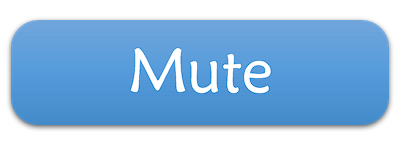
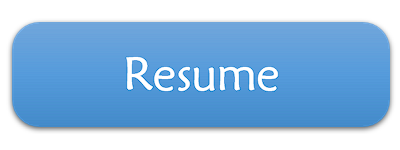
Assets Added, Positions Updated

diff --git a/core/src/main/java/io/github/some_example_name/OverlayPause.java b/core/src/main/java/io/github/some_example_name/OverlayPause.java
@@ -61,6 +61,7 @@ public class OverlayPause extends ScreenAdapter {
 
         button = new ImageButton(buttonStyle);
         button.setPosition(SCREEN_WIDTH * posX - button.getWidth() * 0.5f, SCREEN_HEIGHT * posY-button.getHeight()*0.5f);
+
         button.setHeight(buttonHeight);
         button.setWidth(buttonWidth);
         pauseStage.addActor(button);
@@ -74,7 +75,7 @@ public class OverlayPause extends ScreenAdapter {
         pauseStage = new Stage(new ScreenViewport());
 
         // Create buttons
-        resumeButton = createImageButton("mute.png", "mute.png", 400, 105, 0.5f, 0.75f);
+        resumeButton = createImageButton("resume.png", "resume.png", 400, 100, 0.51f, 0.75f);
         resumeButton.addListener(new ClickListener() {
             @Override
             public void clicked(InputEvent event, float x, float y) {
@@ -82,7 +83,7 @@ public class OverlayPause extends ScreenAdapter {
             }
         });
 
-        saveButton = createImageButton("mute.png", "mute.png", 400, 105, 0.5f, 0.65f);
+        saveButton = createImageButton("save_game.png", "save_game.png", 400, 100, 0.51f, 0.63f);
         saveButton.addListener(new ClickListener() {
             @Override
             public void clicked(InputEvent event, float x, float y) {
@@ -97,7 +98,7 @@ public class OverlayPause extends ScreenAdapter {
             }
         });
 
-        restartButton = createImageButton("mute.png", "mute.png", 400, 105, 0.5f, 0.55f);
+        restartButton = createImageButton("restart.png", "restart.png", 400, 100, 0.51f, 0.51f);
         restartButton.addListener(new ClickListener() {
             @Override
             public void clicked(InputEvent event, float x, float y) {
@@ -130,7 +131,7 @@ public class OverlayPause extends ScreenAdapter {
             }
         });
 
-        exitButton = createImageButton("mute.png", "mute.png", 400, 105, 0.5f, 0.45f);
+        exitButton = createImageButton("exit_level.png", "exit_level.png", 400, 100, 0.51f, 0.39f);
         exitButton.addListener(new ClickListener() {
             @Override
             public void clicked(InputEvent event, float x, float y) {
@@ -149,6 +150,7 @@ public class OverlayPause extends ScreenAdapter {
         overlaySaveGame = new OverlaySaveGame();
 
     }
+
     public void render(float delta) {
         if (isActive) {
             batch.begin();
@@ -219,7 +221,15 @@ public class OverlayPause extends ScreenAdapter {
 //    }
 
     public void resize(int width, int height) {
+
         pauseStage.getViewport().update(width, height, true);
+        resumeButton.setPosition(Gdx.graphics.getWidth() *0.5f - resumeButton.getWidth()*0.5f, Gdx.graphics.getHeight() *0.75f - resumeButton.getHeight() *0.5f);
+        saveButton.setPosition(Gdx.graphics.getWidth() * 0.1f - saveButton.getWidth()*0.5f, Gdx.graphics.getHeight() *0.6f - saveButton.getHeight() *0.5f);
+        restartButton.setPosition(Gdx.graphics.getWidth() * 0.1f - restartButton.getWidth()*0.5f, Gdx.graphics.getHeight() *0.4f - restartButton.getHeight() *0.5f);
+        exitButton.setPosition(Gdx.graphics.getWidth() * 0.1f - exitButton.getWidth()*0.5f, Gdx.graphics.getHeight() *0.3f - exitButton.getHeight() *0.5f);
+
+        settingsButton.setPosition(Gdx.graphics.getWidth() * 0.65f - settingsButton.getWidth()*0.5f, Gdx.graphics.getHeight() *0.6f - settingsButton.getHeight() *0.5f);
+
     }
 
     public void dispose() {

diff --git a/core/src/main/java/io/github/some_example_name/OverlaySaveGame.java b/core/src/main/java/io/github/some_example_name/OverlaySaveGame.java
@@ -62,7 +62,7 @@ public class OverlaySaveGame extends ScreenAdapter {
         saveGameStage = new Stage(new ScreenViewport());
 
         // Create Close Button
-        closeButton = createImageButton("close_button.png", "close_button_down.png", 100, 100, 0.5f, 0.2f);
+        closeButton = createImageButton("close_button.png", "close_button_down.png", 100, 100, 0.51f, 0.2f);
         closeButton.addListener(new ClickListener() {
             @Override
             public void clicked(InputEvent event, float x, float y) {
@@ -72,7 +72,7 @@ public class OverlaySaveGame extends ScreenAdapter {
         saveGameStage.addActor(closeButton);
 
         // Create Confirm Save Button
-        confirmSaveButton = createImageButton("Load_Game.png", "Load_Game.png", 300, 100, 0.5f, 0.5f);//"confirm_save.png"
+        confirmSaveButton = createImageButton("confirm_save.png", "confirm_save.png", 400, 100, 0.51f, 0.5f);//"confirm_save.png"
         confirmSaveButton.addListener(new ClickListener() {
             @Override
             public void clicked(InputEvent event, float x, float y) {

diff --git a/core/src/main/java/io/github/Game/TutorialGame.java b/core/src/main/java/io/github/Game/TutorialGame.java
@@ -67,7 +67,6 @@ public class TutorialGame extends ScreenAdapter {//pages directed (load game,
         button_style.down = button_drawable.get(1);
 
         button = new ImageButton(button_style);
-//        button.setPosition(SCREEN_WIDTH*0.5f - button.getWidth()*0.5f, SCREEN_HEIGHT*0.1f);
         button.setPosition(SCREEN_WIDTH*pos_X - button.getWidth()*0.5f, SCREEN_HEIGHT*pos_Y);
 
         button.setHeight(button_height); button.setWidth(button_width);
